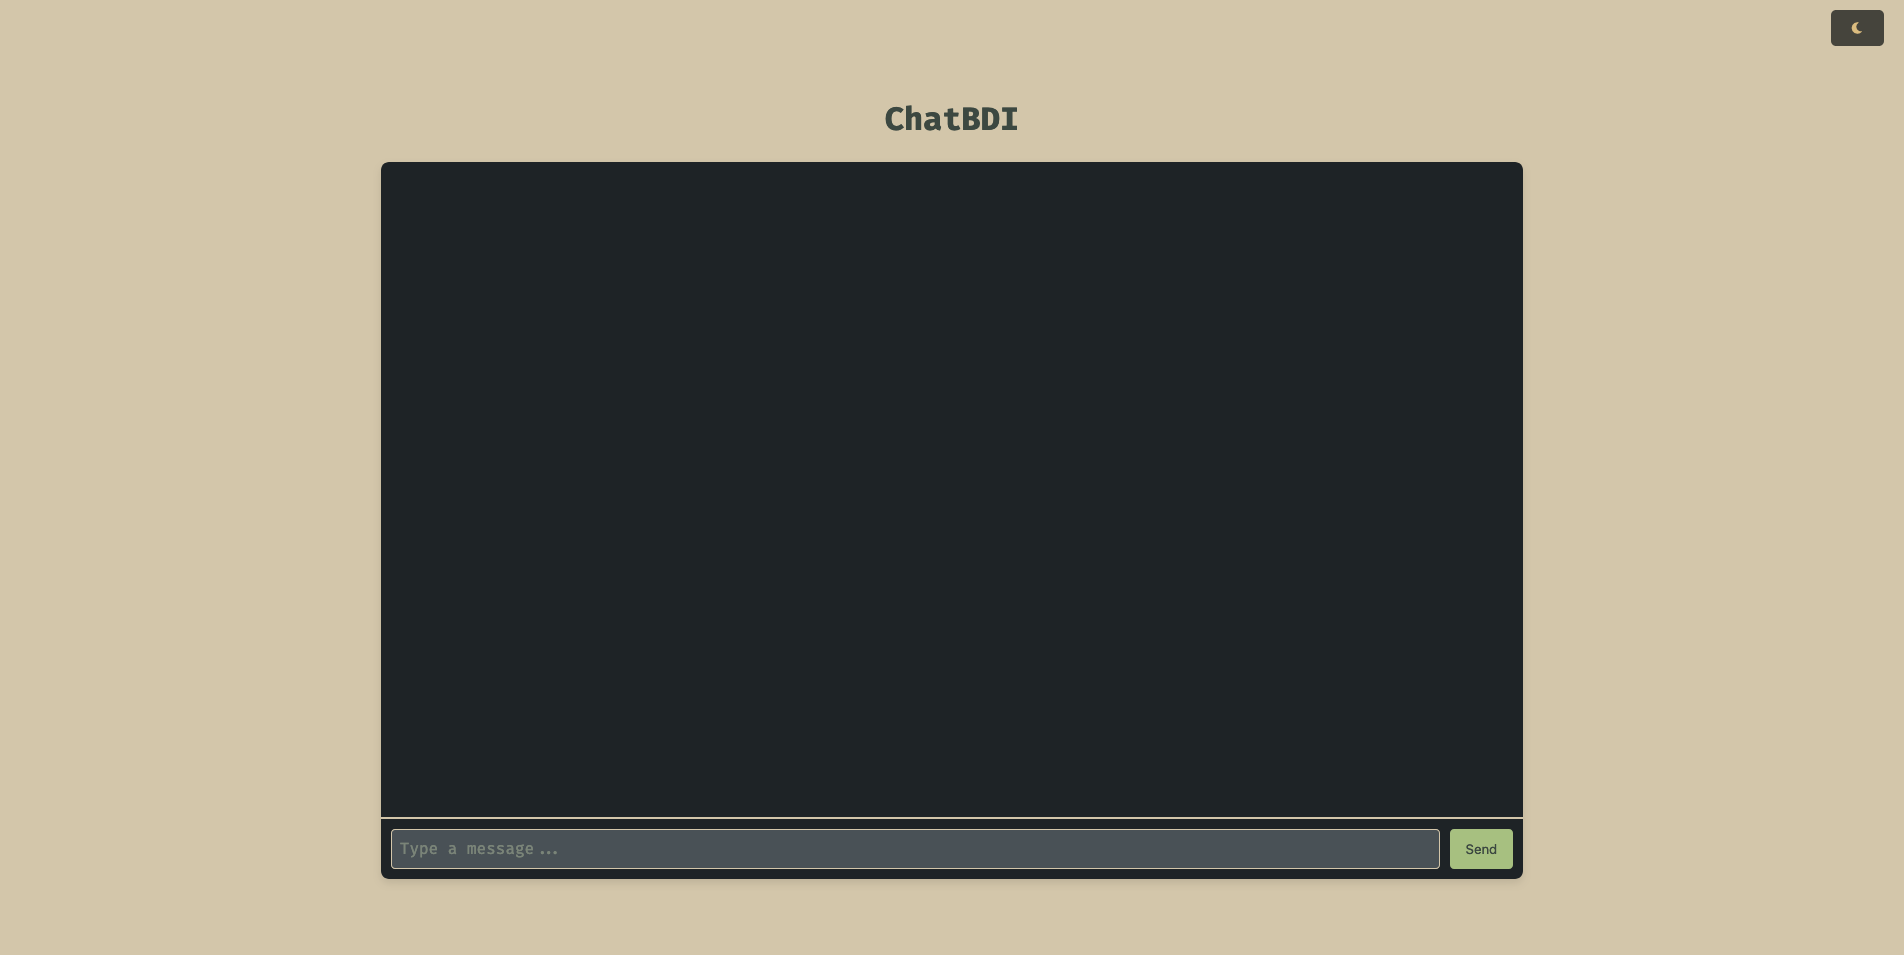
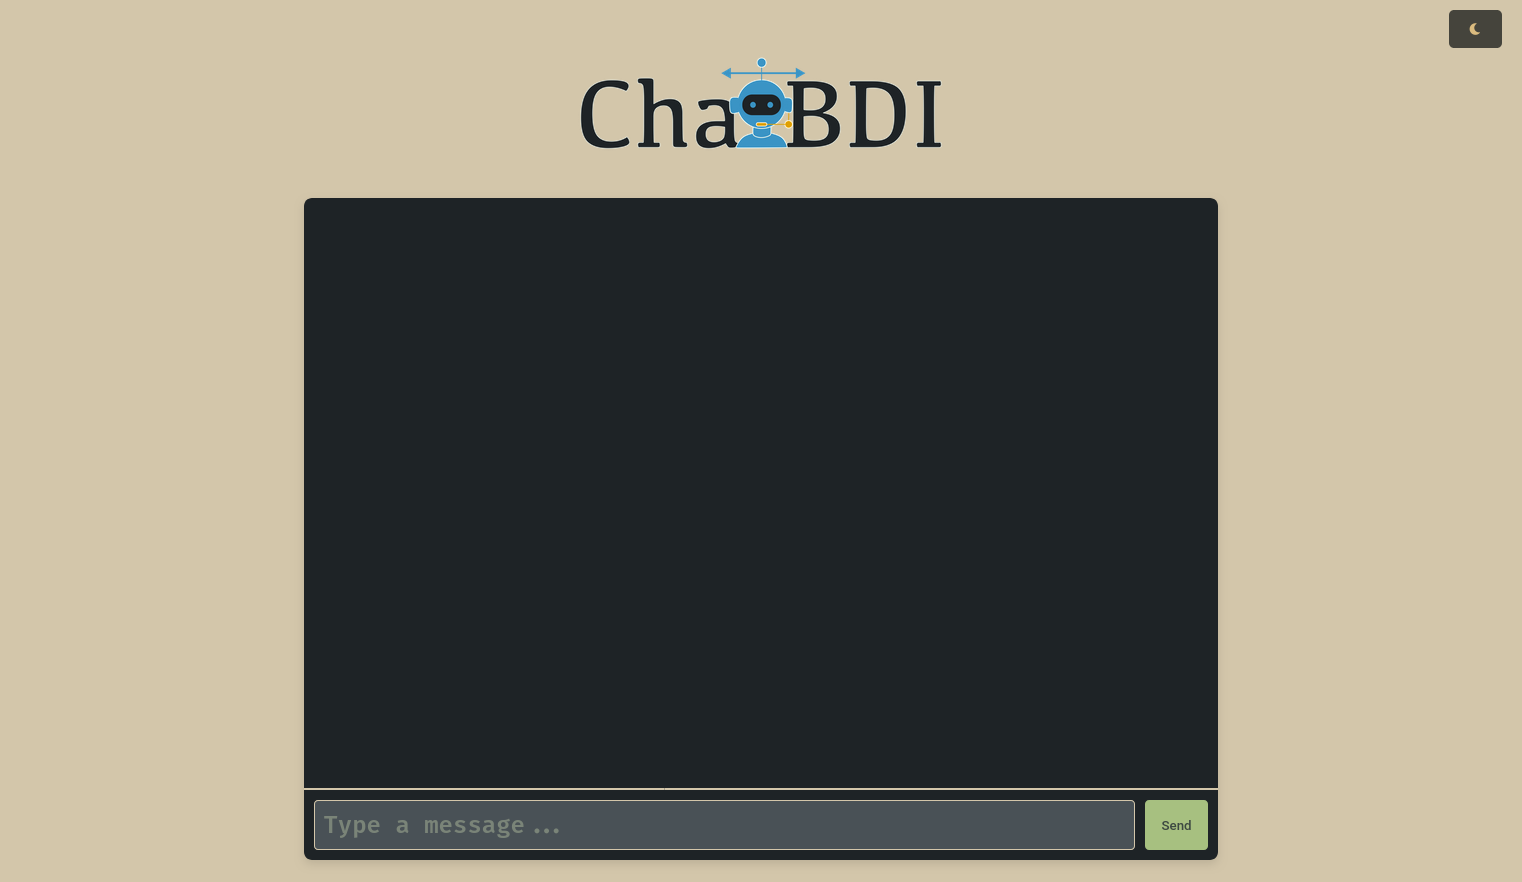
Small changes and readme

Changed region(s): [[0.1853, 0.8571, 0.8029, 0.9796], [0.1853, 0.0612, 0.8029, 0.2449], [0.9264, 0.0, 0.9882, 0.0612]]

diff --git a/chat/theme.js b/chat/theme.js
@@ -2,11 +2,9 @@ const themeToggleButton = document.getElementById('theme-toggle-button');
 const themeIcon = document.getElementById('theme-icon');
 const rootElement = document.documentElement;
 
-// Imposta il tema iniziale in base alla preferenza utente o tema scuro predefinito
 const currentTheme = localStorage.getItem('theme') || 'dark-theme';
 rootElement.classList.add(currentTheme);
 
-// Imposta l'icona iniziale in base al tema
 if (currentTheme === 'light-theme') {
     themeIcon.classList.remove('fa-moon');
     themeIcon.classList.add('fa-sun');
@@ -18,7 +16,6 @@ themeToggleButton.addEventListener('click', () => {
         rootElement.classList.add('light-theme');
         localStorage.setItem('theme', 'light-theme');
 
-        // Cambia l'icona a sole
         themeIcon.classList.remove('fa-moon');
         themeIcon.classList.add('fa-sun');
     } else {
@@ -26,7 +23,6 @@ themeToggleButton.addEventListener('click', () => {
         rootElement.classList.add('dark-theme');
         localStorage.setItem('theme', 'dark-theme');
 
-        // Cambia l'icona a luna
         themeIcon.classList.remove('fa-sun');
         themeIcon.classList.add('fa-moon');
     }

diff --git a/chat/script.js b/chat/script.js
@@ -17,14 +17,11 @@ function handleInput(e) {
     if (text.endsWith(' '))
         text = text.replace(/ $/, '\u00A0');
 
-    // Cerca parole che iniziano con @ e sostituiscile con uno span stilizzato
     const formattedText = processMentions(text);
 
-    // Aggiorna il contenuto solo se cambia, per evitare la cancellazione della selezione
     if (text !== formattedText) {
         messageInput.innerHTML = formattedText;
 
-        // Sposta il cursore alla fine del testo
         placeCaretAtEnd(messageInput);
     }
 }
@@ -50,10 +47,6 @@ function sendMessage() {
         ws.send(message);
         messageInput.innerHTML = '';
 
-        // Simulating a bot response
-        // setTimeout(() => {
-        //     displayMessage('Hello! How can I help you?', 'bot');
-        // }, 1000);
     }
 }
 
@@ -65,7 +58,6 @@ function displayMessage(message, sender) {
     const formattedMessage = processMentions(message);
     messageElement.innerHTML = formattedMessage;
 
-    // messageElement.textContent = message;
     chatMessages.appendChild(messageElement);
     chatMessages.scrollTop = chatMessages.scrollHeight;
 }

diff --git a/chat/chat.js b/chat/chat.js
@@ -3,14 +3,10 @@ const path = require('path');
 const app = express();
 const PORT = 3000;
 
-// Middleware per il parsing del JSON
 app.use(express.json());
 
-// Configura la directory dei file statici
-// app.use(express.static(path.join(__dirname, 'public')));
 app.use(express.static(__dirname))
 
-// Gestisce le richieste POST all'endpoint '/'
 app.post('/', (req, res) => {
     const jsonData = req.body;
     console.log('Dati ricevuti:', jsonData);
@@ -18,7 +14,6 @@ app.post('/', (req, res) => {
     res.json({ message: 'JSON ricevuto con successo' });
 });
 
-// Avvia il server
 app.listen(PORT, () => {
     console.log(`Server in ascolto su http://localhost:${PORT}`);
 });

diff --git a/chat/style.css b/chat/style.css
@@ -1,19 +1,3 @@
-/* :root.dark-theme{
-    --bg-color: #F2EFDF;
-    --bg-blue: #ECF5ED;
-    --bg-green: #F3F5D9;
-    --bg-yellow: #FEF2D5;
-    --text-color: #5C6A72;
-    --blue: #3A94C5;
-    --green: #35A77C;
-    --red: #F85552;
-    --yellow: #DFA000;
-    --purple: #DF69BA;
-
-    --bg-dim: #1E2326;
-} */
-
-/* Tema chiaro */
 :root.light-theme {
     --bg-dim: #F2EFDF;
     --bg0: #FFFBEF;
@@ -46,7 +30,6 @@
     --gray3: #829181;
 }
 
-/* Tema scuro */
 :root.dark-theme {
     --bg-dim: #1E2326;
     --bg0: #272E33;

diff --git a/chat/chat.html b/chat/chat.html
@@ -23,7 +23,6 @@
             <div id="chat-messages" class="chat-messages"></div>
         </div>
         <div class="chat-input">
-            <!-- <input type="text" id="message-input" placeholder="Type a message..." /> -->
             <div class="message-input" id="message-input" contenteditable="true" placeholder="Type a message..."></div>
             <button id="send-button">Send</button>
         </div>

diff --git a/interpreter/src/env/LLaMAArtifact.java b/interpreter/src/env/LLaMAArtifact.java
@@ -13,7 +13,7 @@ import org.json.JSONObject;
 import org.json.JSONArray;
 
 public class LLaMAArtifact extends Artifact {
-    private final String API_URL = "http://localhost:11434/api/chat"; // URL dell'API LLaMA
+    private final String API_URL = "http://localhost:11434/api/chat"; 
     private final HttpClient client = HttpClient.newHttpClient();
 
     @OPERATION

diff --git a/README.md b/README.md
@@ -1,4 +1,14 @@
-# KQML Interpreter
+
+
+![interpreter_logo](./docs/logo.png)
+
+---
+
+**ChatBDI** is an interpreter from Natural Language to KQML and vice versa.
+
+It is implemented as a [JaCaMo](https://jacamo-lang.github.io/) agent that can be easily inserted inside a Multi-Agent System.
+
+---
 
 ## Chat Interface
 
@@ -6,4 +16,90 @@
 | :----------------------------------------------------------: | :----------------------------------------------------------: |
 | ![chat_dark](./docs/screenshots/chat_dark.png) | ![chat_dark](./docs/screenshots/chat_light.png) |
 
-![bidding.gif](./docs/screenshots/bidding.gif)
+## Installation
+
+All the commands are intended from the root folder of the project.
+
+### Chat Interface
+
+First of all, to make the chat interface work you need `nodejs` installed on your computer. 
+
+```bash
+cd chat
+npm install express
+```
+
+### Multi-Agent System
+
+You may want a JaCaMo working installation. All the necessary instructions are at https://jacamo-lang.github.io/getting-started. However, for this project you only need [Gradle](https://gradle.org/) installed on your computer.
+
+### Llama models
+
+You need ollama installed on your computer. You can download it from the official website: https://ollama.com/.
+
+## Usage
+
+### Examples
+
+To make the examples run you should follow this path:
+
+1. Start the chat interface:
+   ```bash
+   cd chat
+   node chat.js
+   ```
+
+   Open a browser at http://localhost:3000/chat.html
+
+2. Start the Ollama daemon and create the necessary models:
+   ```bash
+   cd Llama\ Models/
+   cd KMLQ2NL 
+   ollama create kqml2nl -f Modelfile
+   cd ../NL2KQML
+   ollama create nl2kqml -f Modelfile
+   cd ../NL2Performative
+   ollama create nl2performative -f Modelfile
+   ```
+   If you want to try the DnD example you should use the `ModelfileDnD` in the `NL2KQML` folder.
+
+3. Launch the JaCaMo example
+   ```bash
+   cd examples/dnd/
+   gradle run
+   ```
+
+   If you want to try the auction example just:
+
+   ```bash
+   cd examples/auction_ag
+   gradle run
+   ```
+
+And you are done.
+
+It is possible that you have to launch the JaCaMo MAS more than once in order to be connected, sometimes Chat Interface does not connect correctly within the timeout.
+
+### Inside an existing JaCaMO project
+
+If you have an existing JaCaMo project just open the `.jcm` file and substitute the agent you want to impersonate with `interpreter/interpreter.asl`.
+
+For example, given:
+
+```jcm
+mas jacamo {
+	agent alice:alice.asl
+	agent bob:bob.asl
+}
+```
+
+If you want to impersonate Alice you should change it into:
+
+```jcm
+mas jacamo {
+	agent alice:interpreter/interpreter.asl
+	agent bob:bob.asl
+}
+```
+
+And add a wait of at least 20 seconds at the beginning of each other agent for instrumentation.
